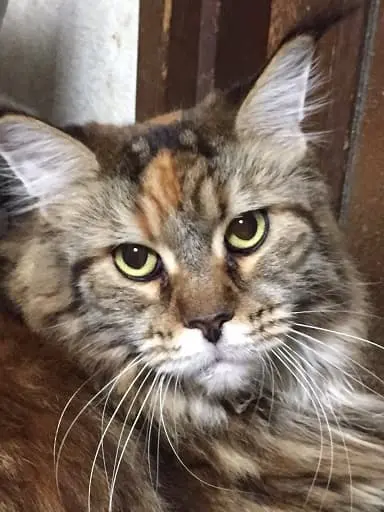
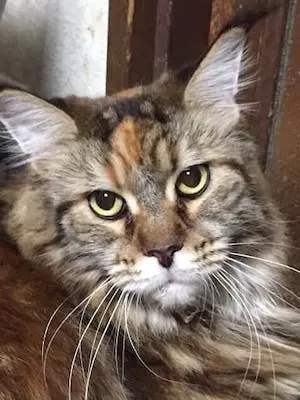
画像サイズの調整

diff --git a/src/components/Carousel/vertical.jsx b/src/components/Carousel/vertical.jsx
@@ -46,18 +46,18 @@ export const CarouselVertical = () => {
       <div ref={sliderRef} className="keen-slider">
         {dataVertical.map((item) => {
           return (
-            <div className="keen-slider__slide number-slide" style={item.url} key={item.id}>
-              <div
-                style={{
-                  border: "solid 1px rgba(98,98,98,.6)",
-                  textShadow: "3px 3px 5px #ffffff",
-                  color: "#71745b",
-                }}
-                className="py-3 px-5 font-semibold backdrop-filter backdrop-blur-lg transform -rotate-45"
-              >
-                <div className="transform rotate-45">{item.title}</div>
+              <div className="keen-slider__slide number-slide" style={item.url} key={item.id}>
+                <div
+                  style={{
+                    border: "solid 1px rgba(98,98,98,.6)",
+                    textShadow: "3px 3px 5px #ffffff",
+                    color: "#71745b",
+                  }}
+                  className="py-3 px-5 font-semibold backdrop-filter backdrop-blur-lg transform -rotate-45"
+                >
+                  <div className="transform rotate-45">{item.title}</div>
+                </div>
               </div>
-            </div>
           );
         })}
       </div>

diff --git a/src/pages/gallery/index.tsx b/src/pages/gallery/index.tsx
@@ -12,11 +12,11 @@ const Gallery: NextPage = () => {
     <Layout theme="fushigi">
       <PageSEO title={`ギャラリー - ${siteMetadata.author}`} description={siteMetadata.description} />
       <PageTitle type="large">Gallery</PageTitle>
+      <PageTitle type="medium">{siteMetadata.title} の世界</PageTitle>
+      <CarouselHorizontal />
       <div className="hidden justify-center mx-0 mb-16 sm:flex">
         <GalleryHexagon />
       </div>
-      <PageTitle type="medium">{siteMetadata.title} の世界</PageTitle>
-      <CarouselHorizontal />
       {/* <PageTitle type="large">Memory </PageTitle>
       <Tile /> */}
     </Layout>

diff --git a/src/components/Carousel/horizontal.js b/src/components/Carousel/horizontal.js
@@ -52,7 +52,7 @@ export const CarouselHorizontal = () => {
                   textShadow: "3px 3px 5px #ffffff",
                   color: "#71745b",
                 }}
-                className="py-1 px-2 font-semibold backdrop-filter backdrop-blur-lg transform -rotate-45 sm:py-3 sm:px-5"
+                className="py-2 px-2 font-semibold backdrop-filter backdrop-blur-lg transform -rotate-45 sm:py-3 sm:px-5"
               >
                 <div className="text-xs transform rotate-45 sm:text-lg md:text-2xl lg:text-3xl">{item.title}</div>
               </div>
